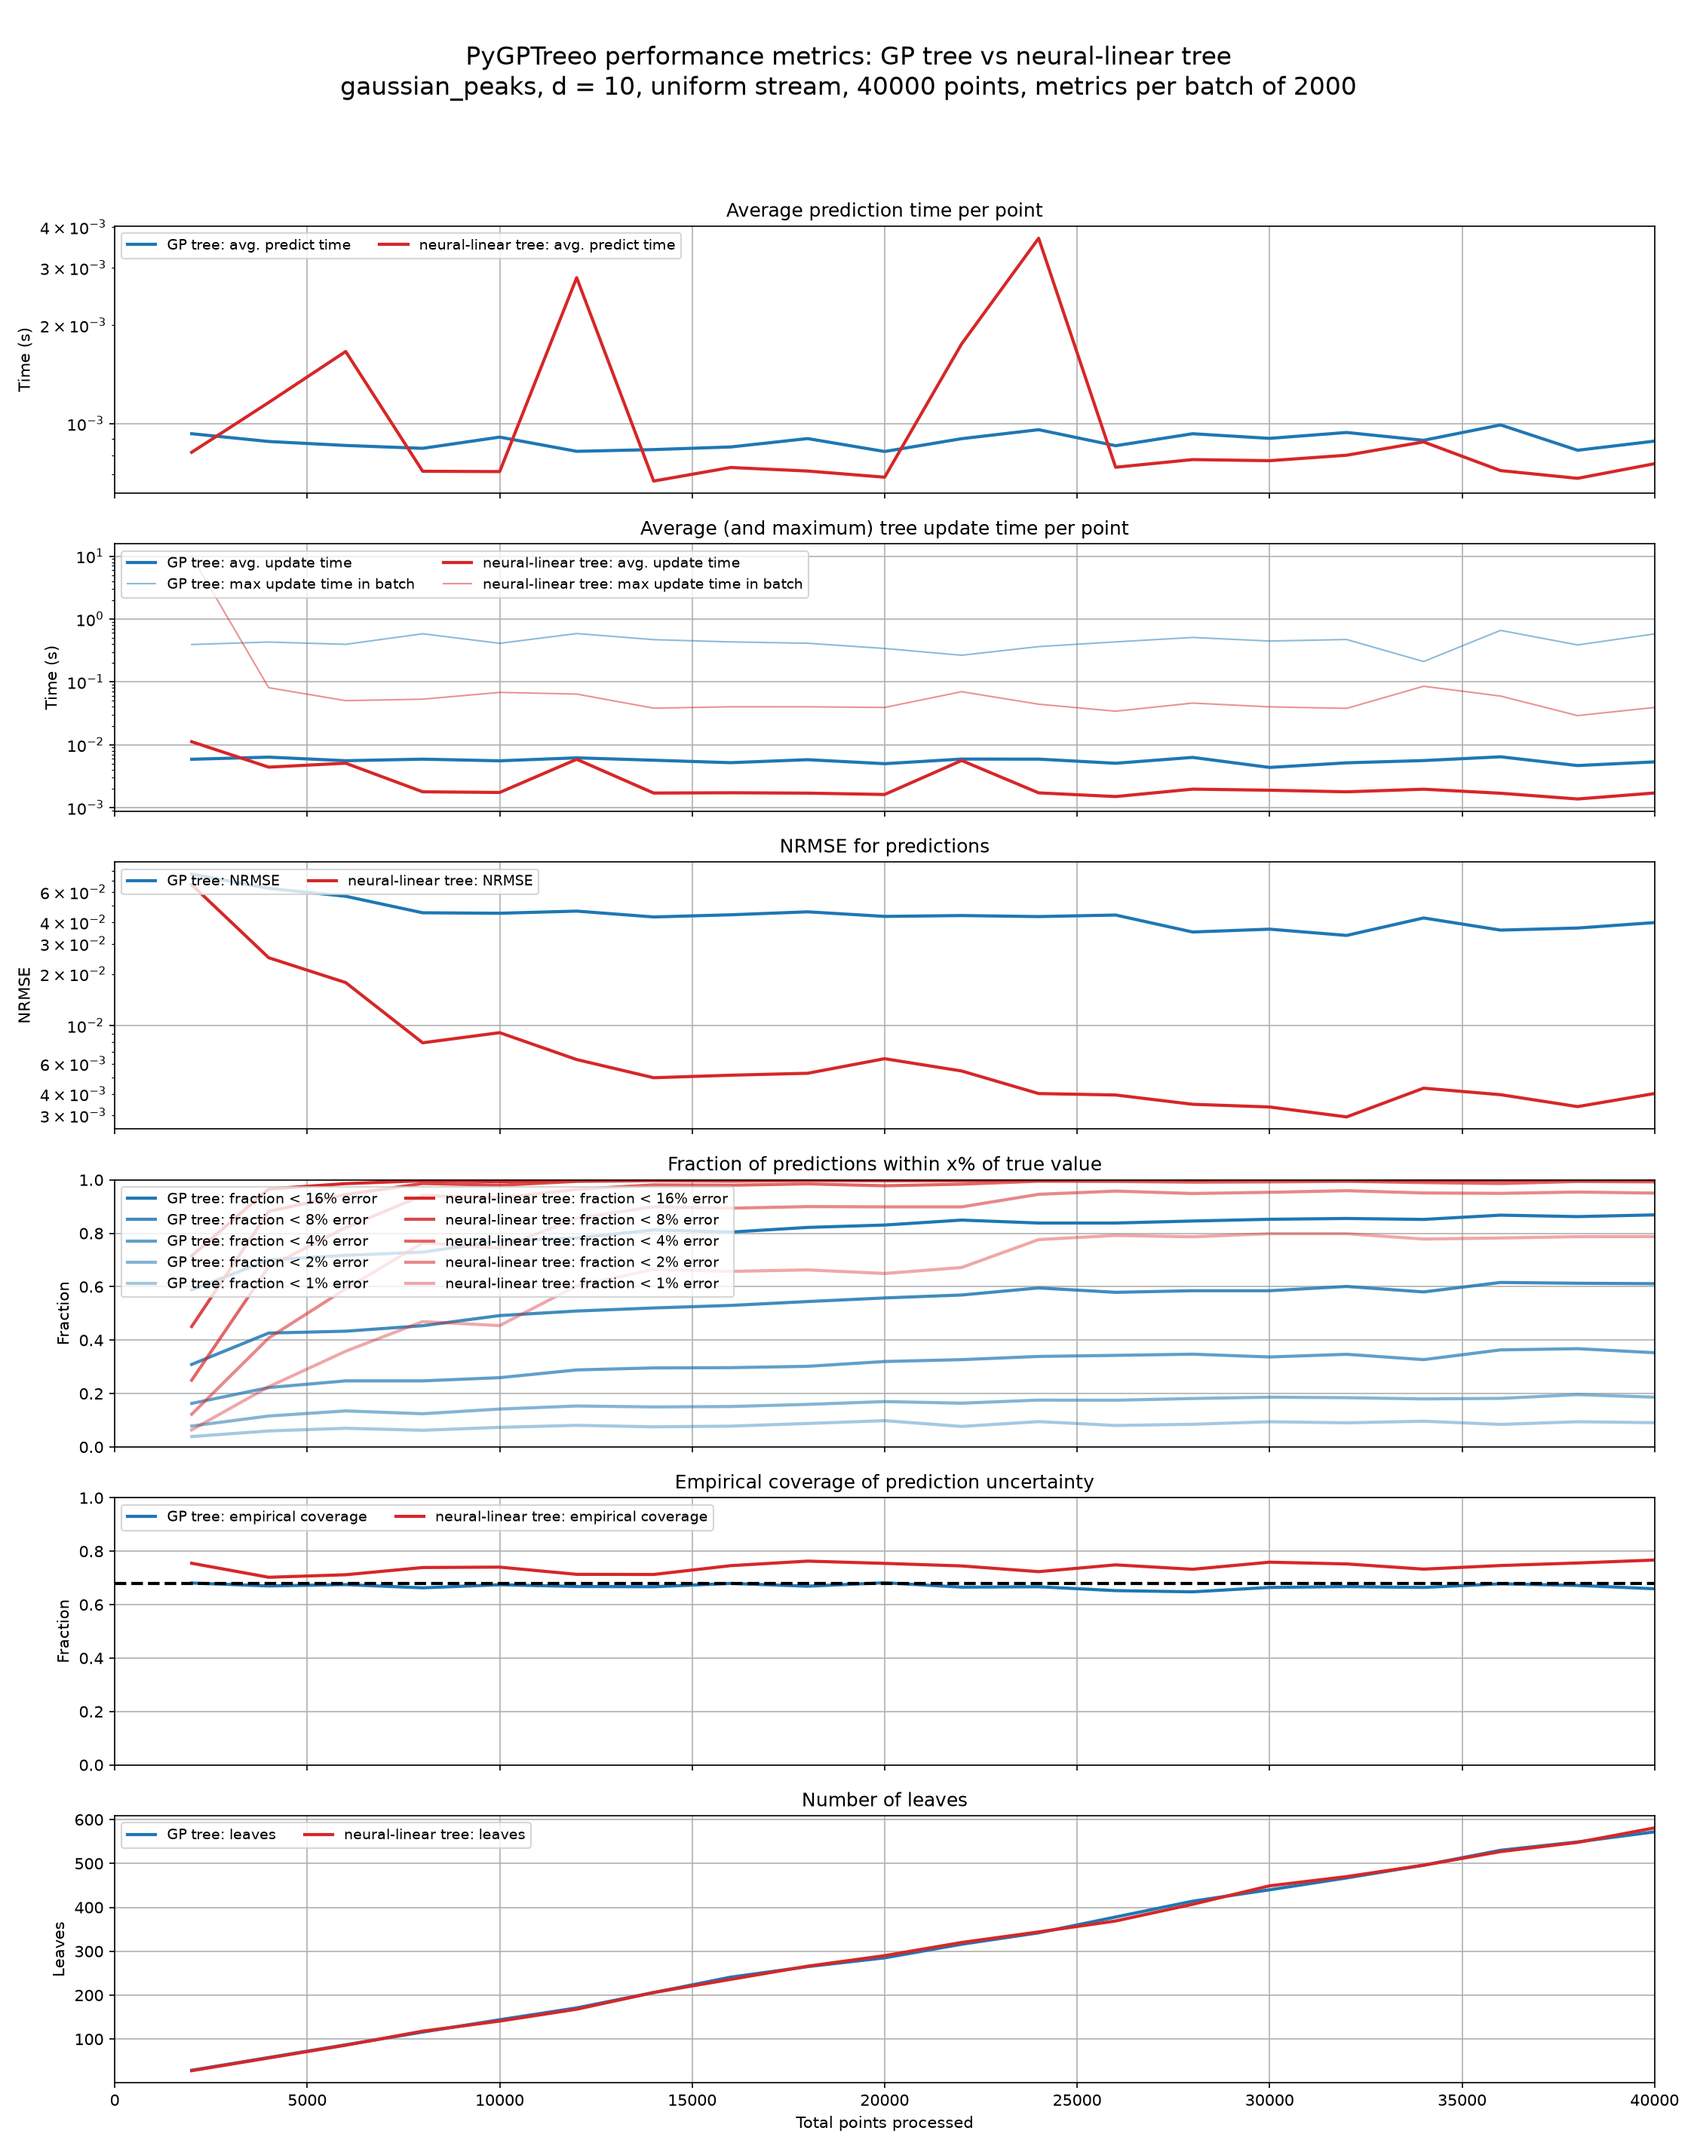
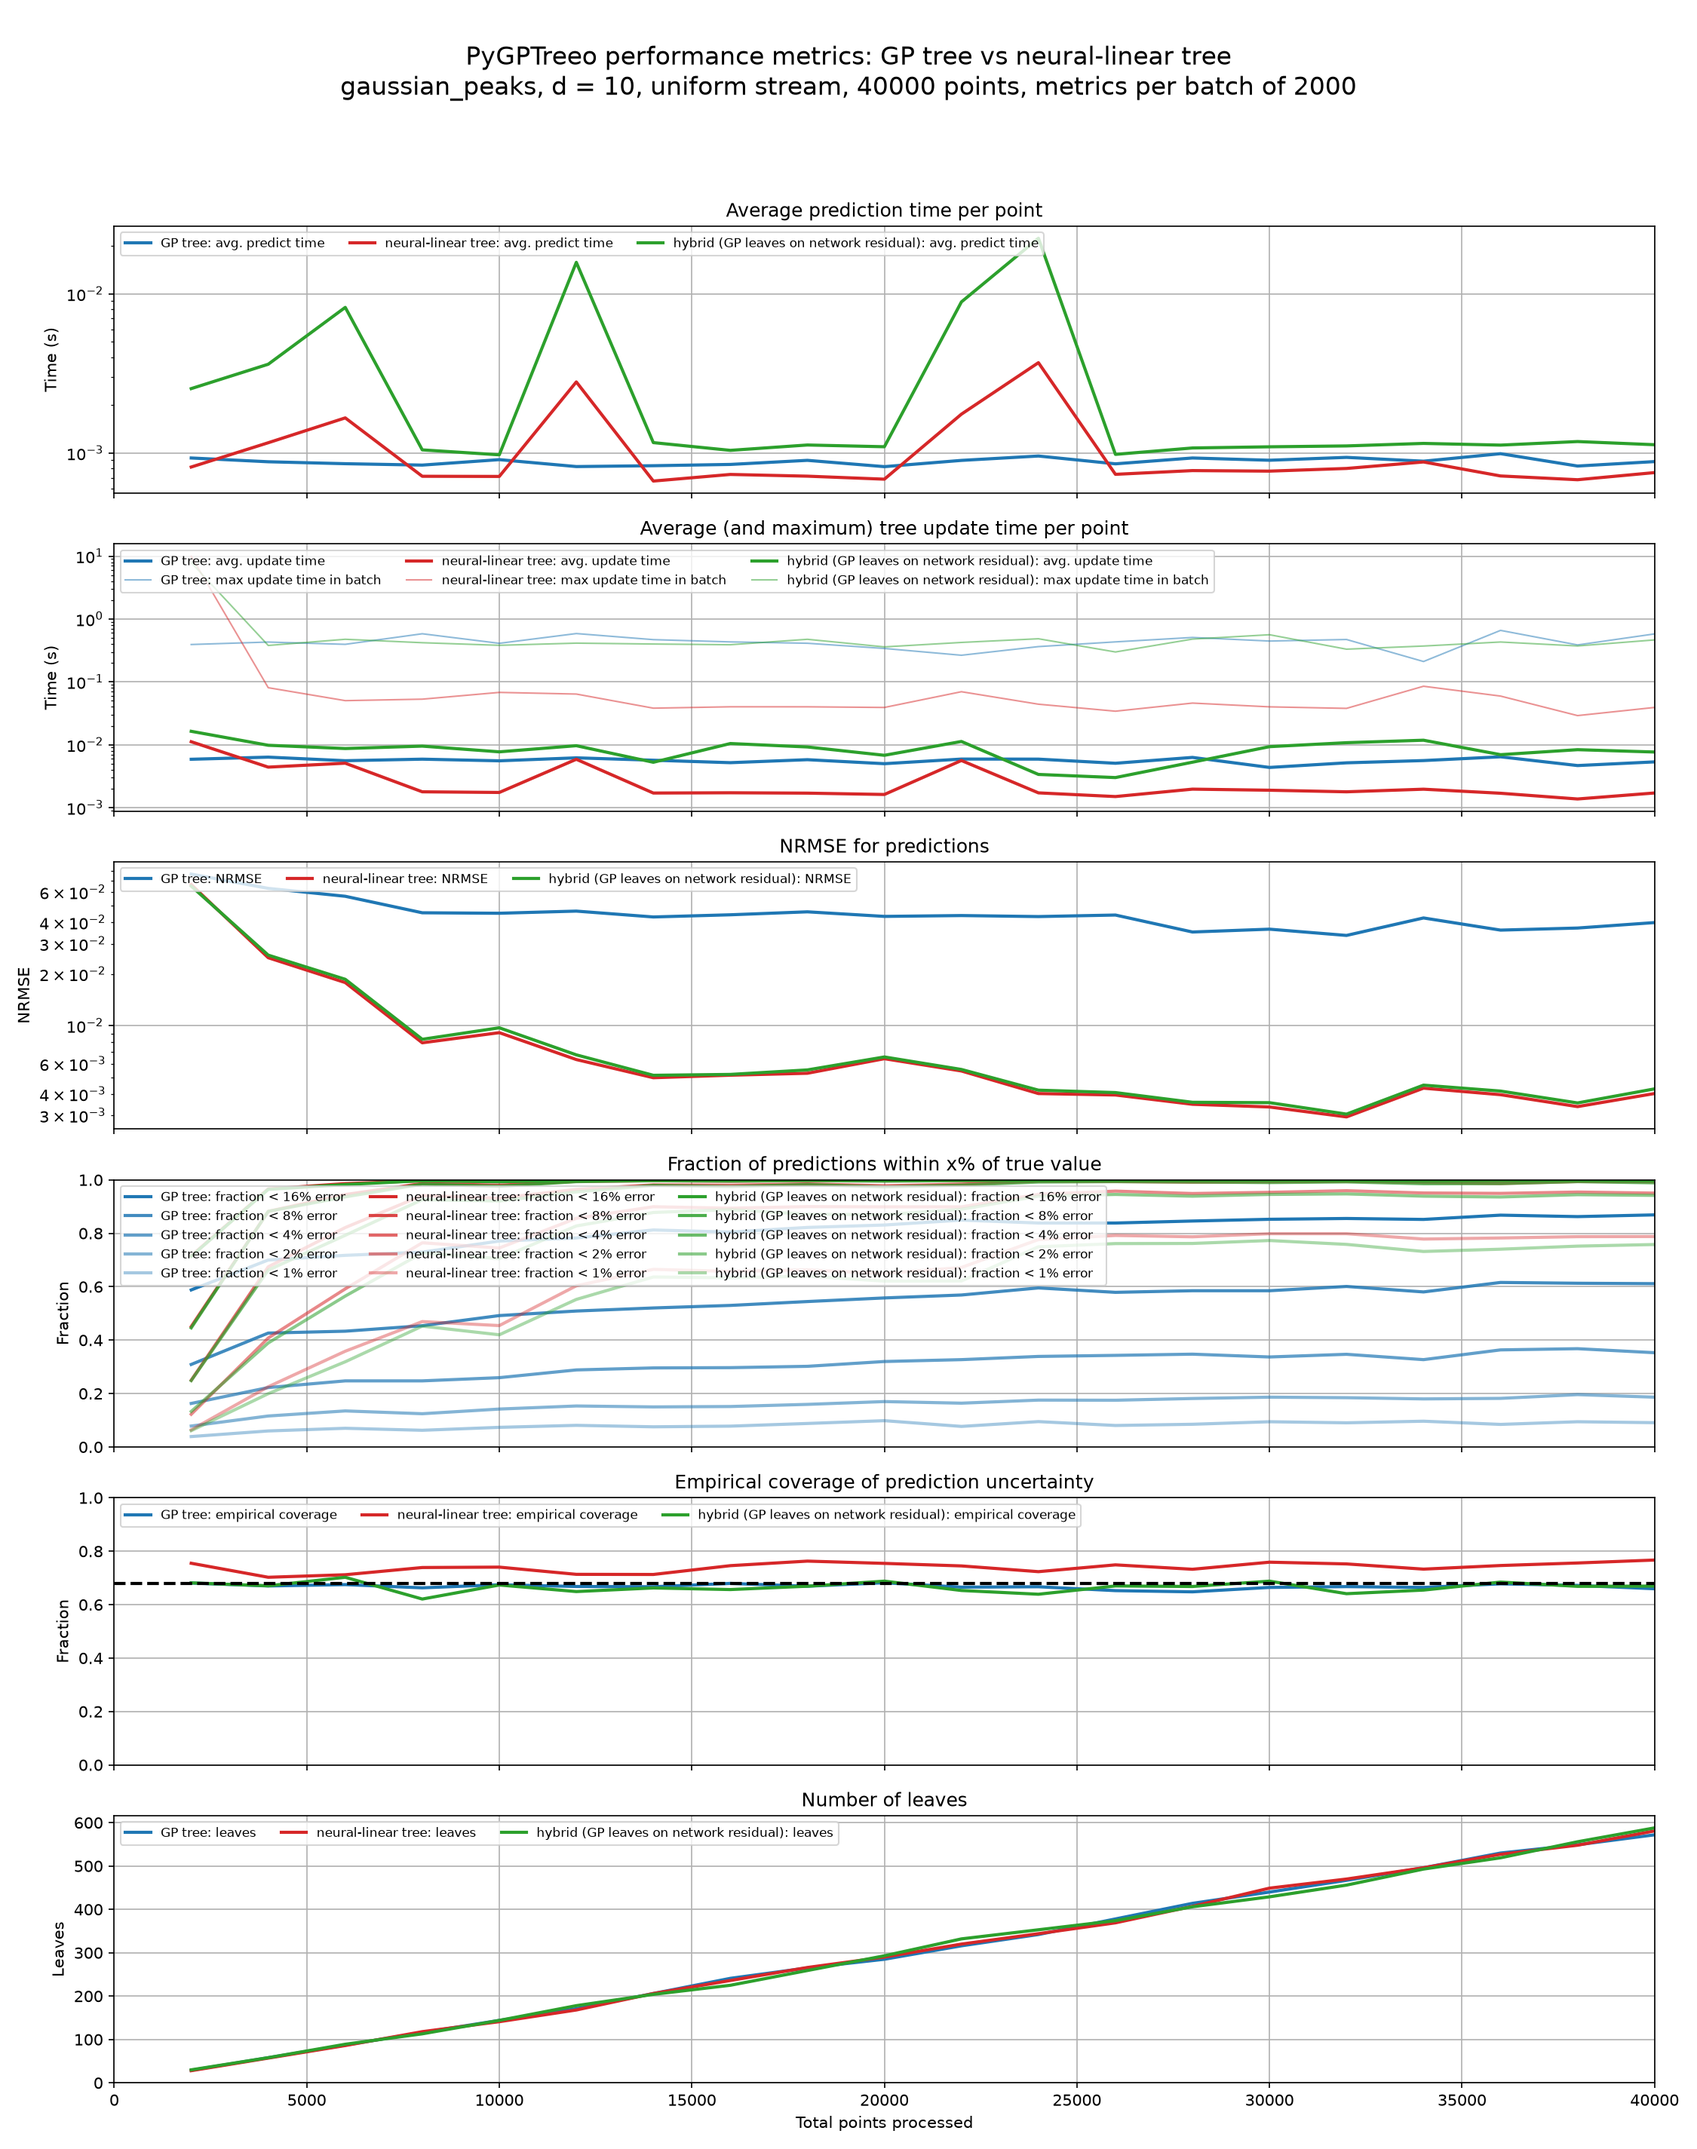
The hybrid on the four 40k-point comparison runs: figures, tables, reading; README note
Claude-Session: https://claude.ai/code/session_01FrnTg814bVGFj51jMyXsj4

diff --git a/examples/BENCHMARK_RESULTS_neural_linear.md b/examples/BENCHMARK_RESULTS_neural_linear.md
@@ -437,16 +437,40 @@ single update time after the first batch:
 
 | run | config | predict ms | update ms (max) | NRMSE | within 1% | within 4% | coverage |
 |---|---|---|---|---|---|---|---|
-| eggholder, d = 3, uniform | GP tree | 0.94 | 4.09 (284) | **0.040** | **0.41** | **0.73** | 0.68 |
+| eggholder, d = 3, uniform | GP tree | 0.94 | 4.09 (284) | 0.040 | **0.41** | **0.73** | 0.68 |
 | | neural-linear | 0.84 | 1.88 (76) | 0.067 | 0.17 | 0.47 | 0.78 |
+| | hybrid | 1.13 | 4.78 (295) | **0.039** | 0.38 | **0.73** | 0.71 |
 | rotated_rosenbrock, d = 6, uniform | GP tree | 0.89 | 4.40 (679) | 0.0045 | 0.30 | 0.69 | 0.67 |
-| | neural-linear | 0.81 | 1.85 (110) | **0.0006** | **0.85** | **0.98** | 0.75 |
+| | neural-linear | 0.81 | 1.85 (110) | **0.0006** | 0.85 | **0.98** | 0.75 |
+| | hybrid | 1.12 | 5.16 (442) | **0.0006** | **0.87** | **0.98** | 0.68 |
 | gaussian_peaks, d = 10, uniform | GP tree | 0.91 | 5.44 (659) | 0.038 | 0.09 | 0.35 | 0.67 |
 | | neural-linear | 0.77 | 1.70 (85) | **0.0037** | **0.79** | **0.99** | 0.75 |
+| | hybrid | 1.14 | 9.11 (562) | 0.0039 | 0.75 | **0.99** | 0.66 |
 | gaussian_peaks, d = 6, walker | GP tree | 0.92 | 4.74 (522) | 0.015 | 0.53 | 0.89 | 0.68 |
-| | neural-linear | 0.77 | 1.77 (85) | **0.0034** | **0.92** | **1.00** | 0.74 |
+| | neural-linear | 0.77 | 1.77 (85) | 0.0034 | 0.92 | **1.00** | 0.74 |
+| | hybrid | 1.13 | 5.46 (554) | **0.0030** | **0.93** | **1.00** | 0.70 |
+
+The `hybrid` rows (GP leaves on the residual of the same network, §1.2) were
+added in a second pass; the figures overlay all three.
 
 Reading:
+
+* **On these 40 000-point streams the hybrid is the best of both.** It
+  matches the GP tree on the Eggholder (0.039 against 0.040) and the
+  neural-linear tree on the three high-dimensional runs (0.0006, 0.0039 and
+  0.0030 against 0.0006, 0.0037 and 0.0034), with coverage at 0.66 to 0.71.
+  On the 4000-point benchmark of §1.2 it sat between the two; by 40 000
+  points the GP leaves on the residual have the points to finish the job the
+  network starts, on smooth and rough targets alike. One seed per run.
+* **It pays the GP leaf's cost.** Update time 4.8 to 9.1 ms on average with
+  batch maxima of 295 to 562 ms (the hyperparameter fits), against 1.7 to
+  1.9 ms and 76 to 110 ms for the neural-linear tree; prediction 1.1 ms
+  against 0.8. On the 10D run its update time is nearly twice the GP tree's,
+  since the network's refits and the leaves' refits against each new
+  snapshot come on top of the GP fits.
+* **Its sigma is the GP's, calibrated on the stream and without the floor**:
+  nominal here, where every point has neighbours, and as poor off-stream as
+  the GP tree's (§1.2).
 
 * **The dimension decides the winner.** On the 3D Eggholder, a rough and
   strongly oscillatory target, the GP tree is better throughout: a local

diff --git a/README.md b/README.md
@@ -213,6 +213,13 @@ wandering stream's own next points; `examples/BENCHMARK_RESULTS_neural_linear.md
 has the coverage numbers per stream. `docs/neural_gptree_ideas.md` has the
 design and the alternatives considered.
 
+The same network can instead serve as the tree's global model, with the leaf GPs
+modelling the residual of its prediction (`GPTree(global_mean='net')`, or
+`global_mean=NetGlobalMean(...)` with the learner's keyword arguments). On
+40 000-point streams this hybrid matched the GP tree on a rough 3D target and
+the neural-linear tree on the 6D and 10D targets, at the GP leaf's update cost
+and with the GP's sigma (no floor away from the data).
+
 ## Running examples
 For more detailed demonstrations, see the example scripts in the `examples/` directory:
 
